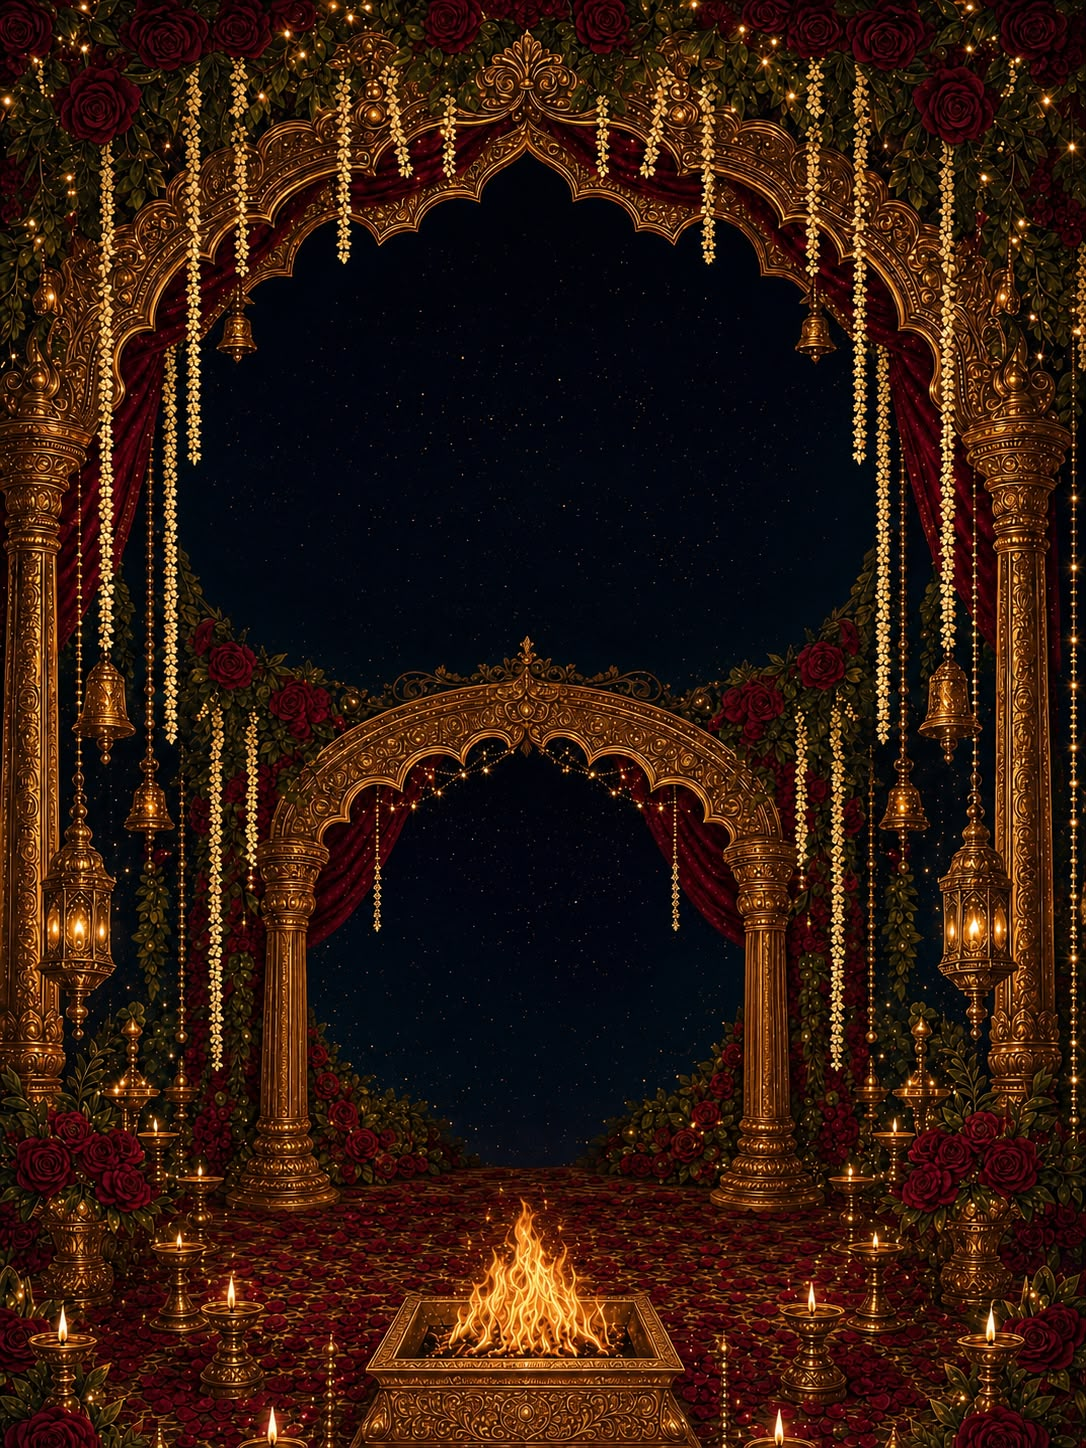
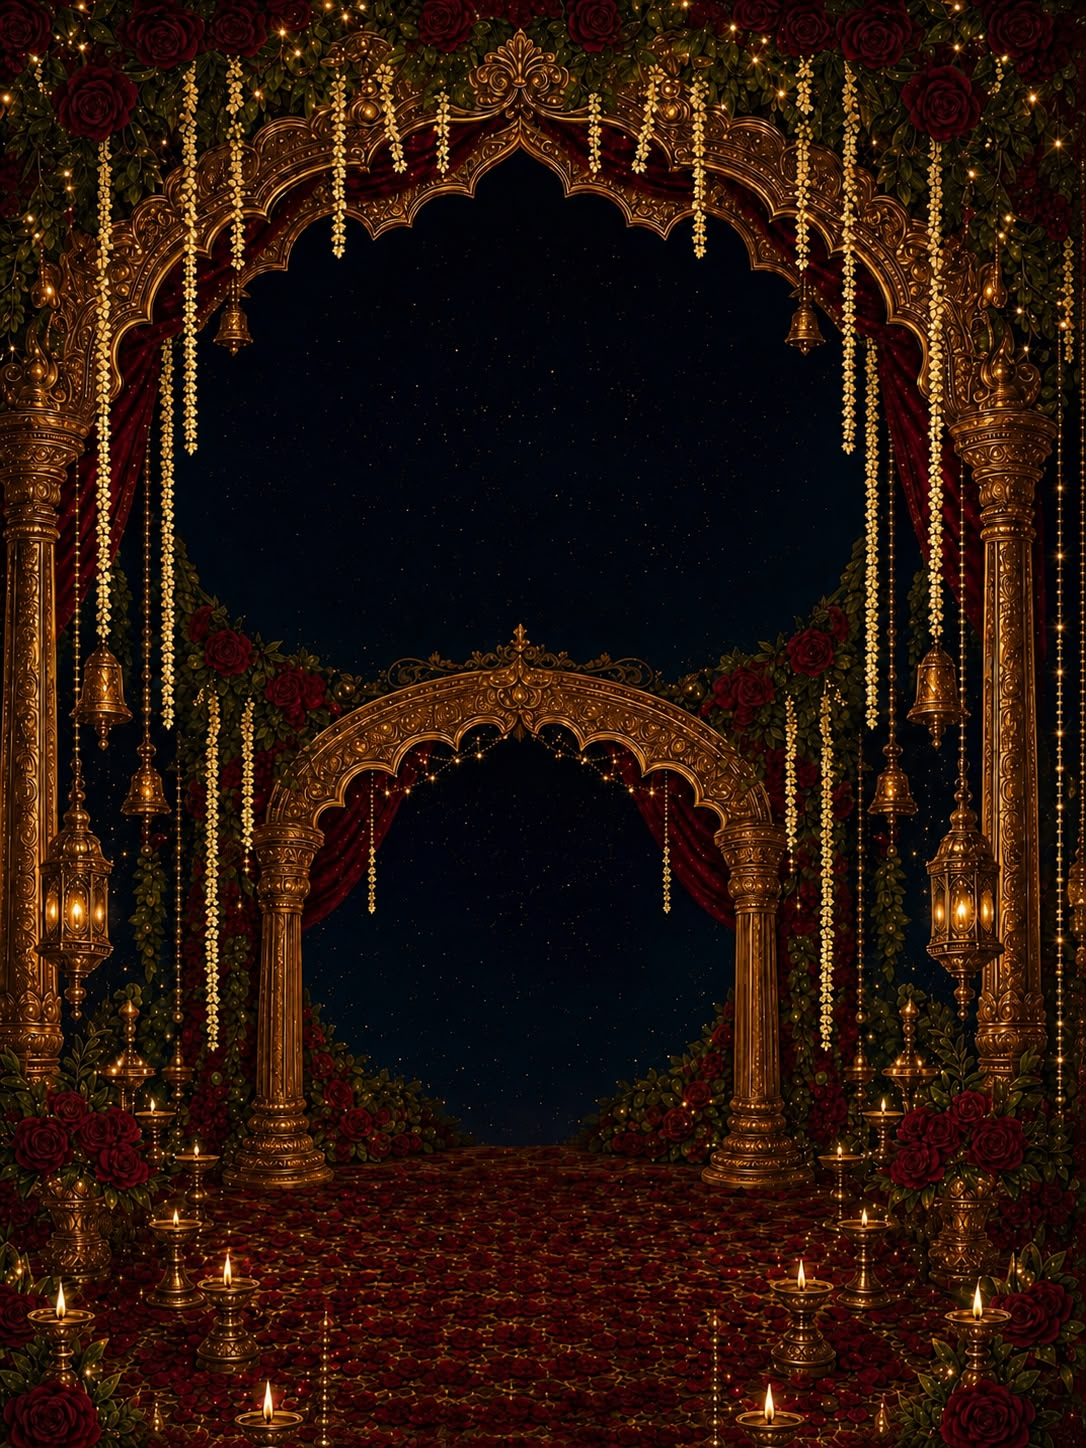
Redesign celebrations header with palace background, adjust figurine positioning and name order
- Replace simple gradient celebrations header with full-screen hero-palace.jpg card
- Add dark overlay and enhanced text shadows for legibility
- Add invitation text, diamond ornaments, date/location to celebrations header
- Shift carnival figurine 5% right, tune figurine sizes across all cards
- Swap name order to Tathagat & Akansha (hero and footer)
- Update event images (carnival-couple, cover, shadi-bg, shadi-couple)

diff --git a/src/components/Celebrations.tsx b/src/components/Celebrations.tsx
@@ -11,11 +11,11 @@ const GOLD = "#E6D6AE";
 const GOLD_MUTED = "#C9B891";
 
 // Per-event tuning for the composited couple figurine (standing vs sitting differ).
-const COUPLE: Record<string, { height: string; maxW: string; bottom: string }> = {
-  carnival: { height: "62%", maxW: "80%", bottom: "17%" },
-  sangeet: { height: "66%", maxW: "88%", bottom: "15%" },
-  wedding: { height: "52%", maxW: "92%", bottom: "17%" },
-  reception: { height: "60%", maxW: "88%", bottom: "16%" },
+const COUPLE: Record<string, { height: string; maxW: string; bottom: string; offsetX?: string }> = {
+  carnival: { height: "50%", maxW: "88%", bottom: "17%", offsetX: "5%" },
+  sangeet: { height: "60%", maxW: "88%", bottom: "15%" },
+  wedding: { height: "49%", maxW: "92%", bottom: "25%" },
+  reception: { height: "55%", maxW: "88%", bottom: "16%" },
 };
 
 function CelebrationCard({ event }: { event: (typeof events)[number] }) {
@@ -85,8 +85,10 @@ function CelebrationCard({ event }: { event: (typeof events)[number] }) {
       <img
         src={event.couple}
         alt=""
-        className="card-couple absolute left-1/2 -translate-x-1/2 object-contain"
+        className="card-couple absolute object-contain"
         style={{
+          left: `calc(50% + ${c.offsetX ?? "0%"})`,
+          transform: "translateX(-50%)",
           bottom: c.bottom,
           height: c.height,
           maxWidth: c.maxW,
@@ -264,55 +266,127 @@ export default function Celebrations() {
           "linear-gradient(180deg, #0a0e26 0%, #0c1130 40%, #0a0e26 100%)",
       }}
     >
-      {/* Section header */}
+      {/* Section header — full-screen image card */}
       <div
         ref={headerRef}
-        className="flex flex-col items-center text-center px-6 pt-20 pb-12"
-        style={{ color: GOLD }}
+        className="relative w-full overflow-hidden"
+        style={{ aspectRatio: "9 / 16", maxHeight: "100vh" }}
       >
-        <div
-          className="ch"
-          style={{
-            width: "56px",
-            height: "1px",
-            background: GOLD_MUTED,
-            opacity: 0.6,
-            marginBottom: "1.6rem",
-          }}
+        <img
+          src="/images/hero-palace.jpg"
+          alt=""
+          className="absolute inset-0 w-full h-full object-cover object-center"
         />
-        <h2
-          className="ch"
-          style={{
-            fontFamily: "var(--font-pinyon-script)",
-            fontSize: "clamp(40px, 12vw, 62px)",
-            lineHeight: 1.05,
-            textShadow: "0 2px 14px rgba(0,0,0,0.5)",
-          }}
-        >
-          The Celebrations
-        </h2>
-        <p
-          className="ch"
-          style={{
-            fontFamily: "var(--font-cinzel)",
-            fontSize: "clamp(8px, 2.6vw, 11px)",
-            letterSpacing: "0.3em",
-            marginTop: "0.8rem",
-            color: GOLD_MUTED,
-          }}
-        >
-          JOIN US FOR THE FESTIVITIES
-        </p>
+
+        {/* Dark overlay for text legibility */}
         <div
-          className="ch"
-          style={{
-            width: "56px",
-            height: "1px",
-            background: GOLD_MUTED,
-            opacity: 0.6,
-            marginTop: "1.6rem",
-          }}
+          className="absolute inset-0"
+          style={{ background: "rgba(6,10,28,0.5)" }}
         />
+
+        <div
+          className="absolute inset-0 flex flex-col items-center justify-center text-center pointer-events-none"
+          style={{ color: GOLD, paddingLeft: "12%", paddingRight: "12%" }}
+        >
+          {/* Top diamond ornament */}
+          <div className="ch flex items-center gap-3" style={{ marginBottom: "1.4rem" }}>
+            <span style={{ width: "clamp(24px, 7vw, 40px)", height: "1px", background: GOLD_MUTED, display: "inline-block" }} />
+            <span style={{ fontSize: "clamp(8px, 2.2vw, 12px)", color: GOLD_MUTED }}>◆</span>
+            <span style={{ width: "clamp(24px, 7vw, 40px)", height: "1px", background: GOLD_MUTED, display: "inline-block" }} />
+          </div>
+
+          <h2
+            className="ch"
+            style={{
+              fontFamily: "var(--font-pinyon-script)",
+              fontSize: "clamp(28px, 8vw, 48px)",
+              lineHeight: 1.05,
+              textShadow: "0 2px 16px rgba(0,0,0,0.8), 0 0 40px rgba(0,0,0,0.4)",
+            }}
+          >
+            The Celebrations
+          </h2>
+          <p
+            className="ch"
+            style={{
+              fontFamily: "var(--font-cinzel)",
+              fontSize: "clamp(7px, 2.2vw, 10px)",
+              letterSpacing: "0.3em",
+              marginTop: "0.3rem",
+              color: GOLD_MUTED,
+              textShadow: "0 1px 4px rgba(0,0,0,0.6)",
+            }}
+          >
+            JOIN US FOR THE CELEBRATIONS
+          </p>
+
+          {/* Invitation paragraphs */}
+          <p
+            className="ch"
+            style={{
+              fontFamily: "var(--font-pinyon-script)",
+              fontSize: "clamp(14px, 3.8vw, 20px)",
+              lineHeight: 1.5,
+              marginTop: "clamp(1.2rem, 4vw, 2rem)",
+              textShadow: "0 1px 10px rgba(0,0,0,0.8), 0 0 30px rgba(0,0,0,0.3)",
+              maxWidth: "80%",
+            }}
+          >
+            With joyful hearts, we invite you to share in
+            <br />
+            the colours, music and sacred moments
+            <br />
+            of our wedding.
+          </p>
+          <p
+            className="ch"
+            style={{
+              fontFamily: "var(--font-pinyon-script)",
+              fontSize: "clamp(14px, 3.8vw, 20px)",
+              lineHeight: 1.5,
+              marginTop: "clamp(0.6rem, 2vw, 1rem)",
+              textShadow: "0 1px 10px rgba(0,0,0,0.8), 0 0 30px rgba(0,0,0,0.3)",
+              maxWidth: "80%",
+            }}
+          >
+            Come celebrate, dance, laugh and bless us
+            <br />
+            as our forever begins.
+          </p>
+
+          {/* Bottom diamond ornament */}
+          <div className="ch flex items-center gap-3" style={{ marginTop: "clamp(1.2rem, 4vw, 2rem)" }}>
+            <span style={{ width: "clamp(24px, 7vw, 40px)", height: "1px", background: GOLD_MUTED, display: "inline-block" }} />
+            <span style={{ fontSize: "clamp(8px, 2.2vw, 12px)", color: GOLD_MUTED }}>◆</span>
+            <span style={{ width: "clamp(24px, 7vw, 40px)", height: "1px", background: GOLD_MUTED, display: "inline-block" }} />
+          </div>
+
+          {/* Date and location */}
+          <p
+            className="ch"
+            style={{
+              fontFamily: "var(--font-cinzel)",
+              fontSize: "clamp(9px, 2.8vw, 13px)",
+              letterSpacing: "0.2em",
+              marginTop: "clamp(1rem, 3vw, 1.6rem)",
+              textShadow: "0 1px 4px rgba(0,0,0,0.6)",
+            }}
+          >
+            21ST, 22ND &amp; 27TH NOVEMBER 2026
+          </p>
+          <p
+            className="ch"
+            style={{
+              fontFamily: "var(--font-cinzel)",
+              fontSize: "clamp(8px, 2.4vw, 11px)",
+              letterSpacing: "0.35em",
+              marginTop: "0.4rem",
+              color: GOLD_MUTED,
+              textShadow: "0 1px 4px rgba(0,0,0,0.6)",
+            }}
+          >
+          </p>
+        </div>
       </div>
 
       {/* Event cards */}

diff --git a/src/components/Hero.tsx b/src/components/Hero.tsx
@@ -152,51 +152,6 @@ export default function Hero({ opened = true }: { opened?: boolean }) {
               gap: "clamp(6px, 2vw, 14px)",
             }}
           >
-            {/* Akansha */}
-            <div style={{ flex: "0 1 auto", maxWidth: "42%", textAlign: "center" }}>
-              <div
-                style={{
-                  fontFamily: "var(--font-pinyon-script)",
-                  fontSize: "clamp(28px, 8.2vw, 46px)",
-                  lineHeight: 1.05,
-                  textShadow: "0 2px 12px rgba(0,0,0,0.6)",
-                }}
-              >
-                <Script text="Akansha" />
-              </div>
-              <div
-                style={{
-                  fontFamily: "var(--font-cinzel)",
-                  fontSize: "clamp(8px, 2.3vw, 10.5px)",
-                  letterSpacing: "0.07em",
-                  lineHeight: 1.55,
-                  marginTop: "0.7em",
-                  color: GOLD_MUTED,
-                  textShadow: "0 1px 5px rgba(0,0,0,0.6)",
-                }}
-              >
-                DAUGHTER OF
-                <br />
-                MRS. APARNA SINGH
-                <br />
-                &amp; MR. S.K. SINGH
-              </div>
-            </div>
-
-            {/* Ampersand */}
-            <div
-              style={{
-                flex: "0 0 auto",
-                fontFamily: "var(--font-pinyon-script)",
-                fontSize: "clamp(22px, 6vw, 34px)",
-                color: GOLD,
-                paddingTop: "0.15em",
-                textShadow: "0 2px 10px rgba(0,0,0,0.6)",
-              }}
-            >
-              &amp;
-            </div>
-
             {/* Tathagat */}
             <div style={{ flex: "0 1 auto", maxWidth: "42%", textAlign: "center" }}>
               <div
@@ -225,6 +180,51 @@ export default function Hero({ opened = true }: { opened?: boolean }) {
                 DR. KUSUM SHARMA
                 <br />
                 &amp; MR. SANJAY
+              </div>
+            </div>
+
+            {/* Ampersand */}
+            <div
+              style={{
+                flex: "0 0 auto",
+                fontFamily: "var(--font-pinyon-script)",
+                fontSize: "clamp(22px, 6vw, 34px)",
+                color: GOLD,
+                paddingTop: "0.15em",
+                textShadow: "0 2px 10px rgba(0,0,0,0.6)",
+              }}
+            >
+              &amp;
+            </div>
+
+            {/* Akansha */}
+            <div style={{ flex: "0 1 auto", maxWidth: "42%", textAlign: "center" }}>
+              <div
+                style={{
+                  fontFamily: "var(--font-pinyon-script)",
+                  fontSize: "clamp(28px, 8.2vw, 46px)",
+                  lineHeight: 1.05,
+                  textShadow: "0 2px 12px rgba(0,0,0,0.6)",
+                }}
+              >
+                <Script text="Akansha" />
+              </div>
+              <div
+                style={{
+                  fontFamily: "var(--font-cinzel)",
+                  fontSize: "clamp(8px, 2.3vw, 10.5px)",
+                  letterSpacing: "0.07em",
+                  lineHeight: 1.55,
+                  marginTop: "0.7em",
+                  color: GOLD_MUTED,
+                  textShadow: "0 1px 5px rgba(0,0,0,0.6)",
+                }}
+              >
+                DAUGHTER OF
+                <br />
+                MRS. APARNA SINGH
+                <br />
+                &amp; MR. S.K. SINGH
               </div>
             </div>
           </div>

diff --git a/src/components/Footer.tsx b/src/components/Footer.tsx
@@ -46,7 +46,7 @@ export default function Footer() {
           textShadow: "0 2px 14px rgba(0,0,0,0.5)",
         }}
       >
-        {w.bride} &amp; {w.groom}
+        {w.groom} &amp; {w.bride}
       </p>
 
       <div
